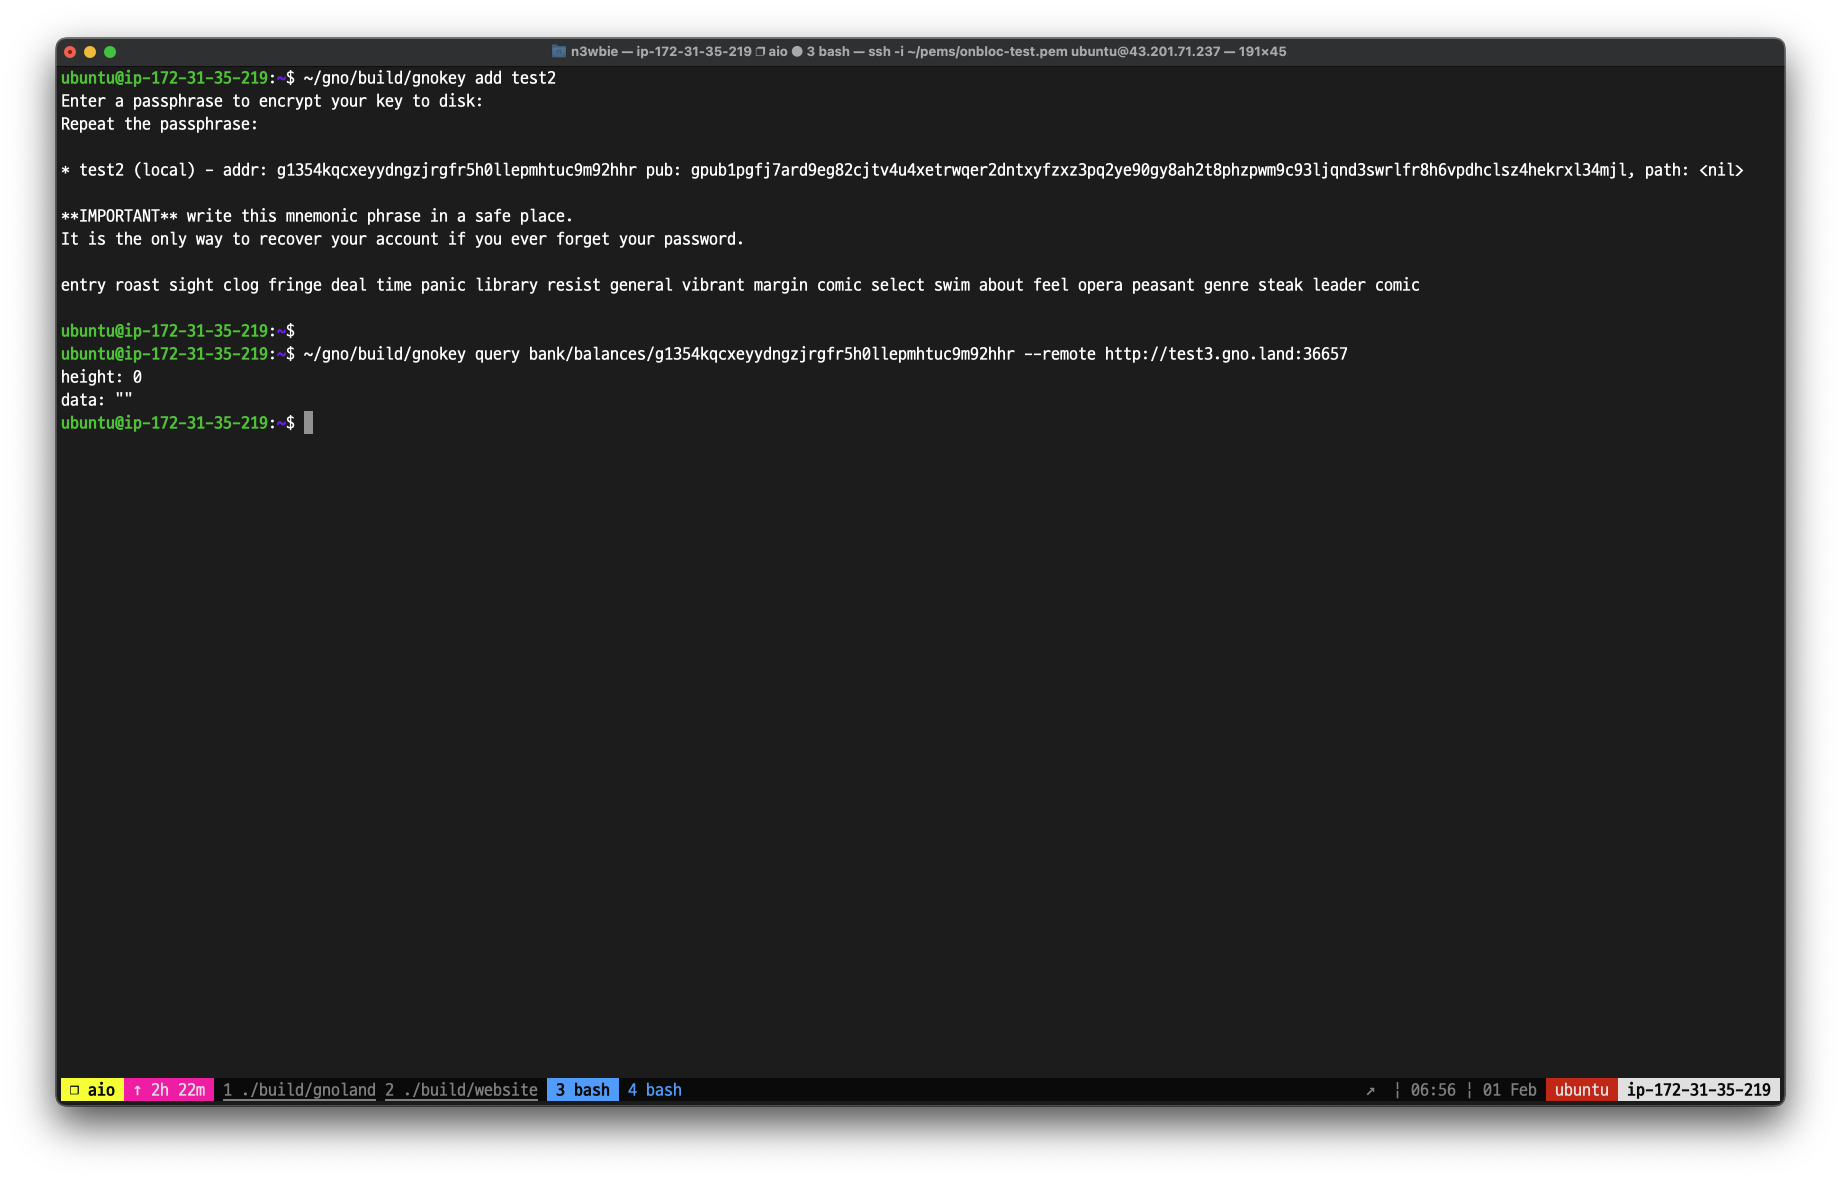
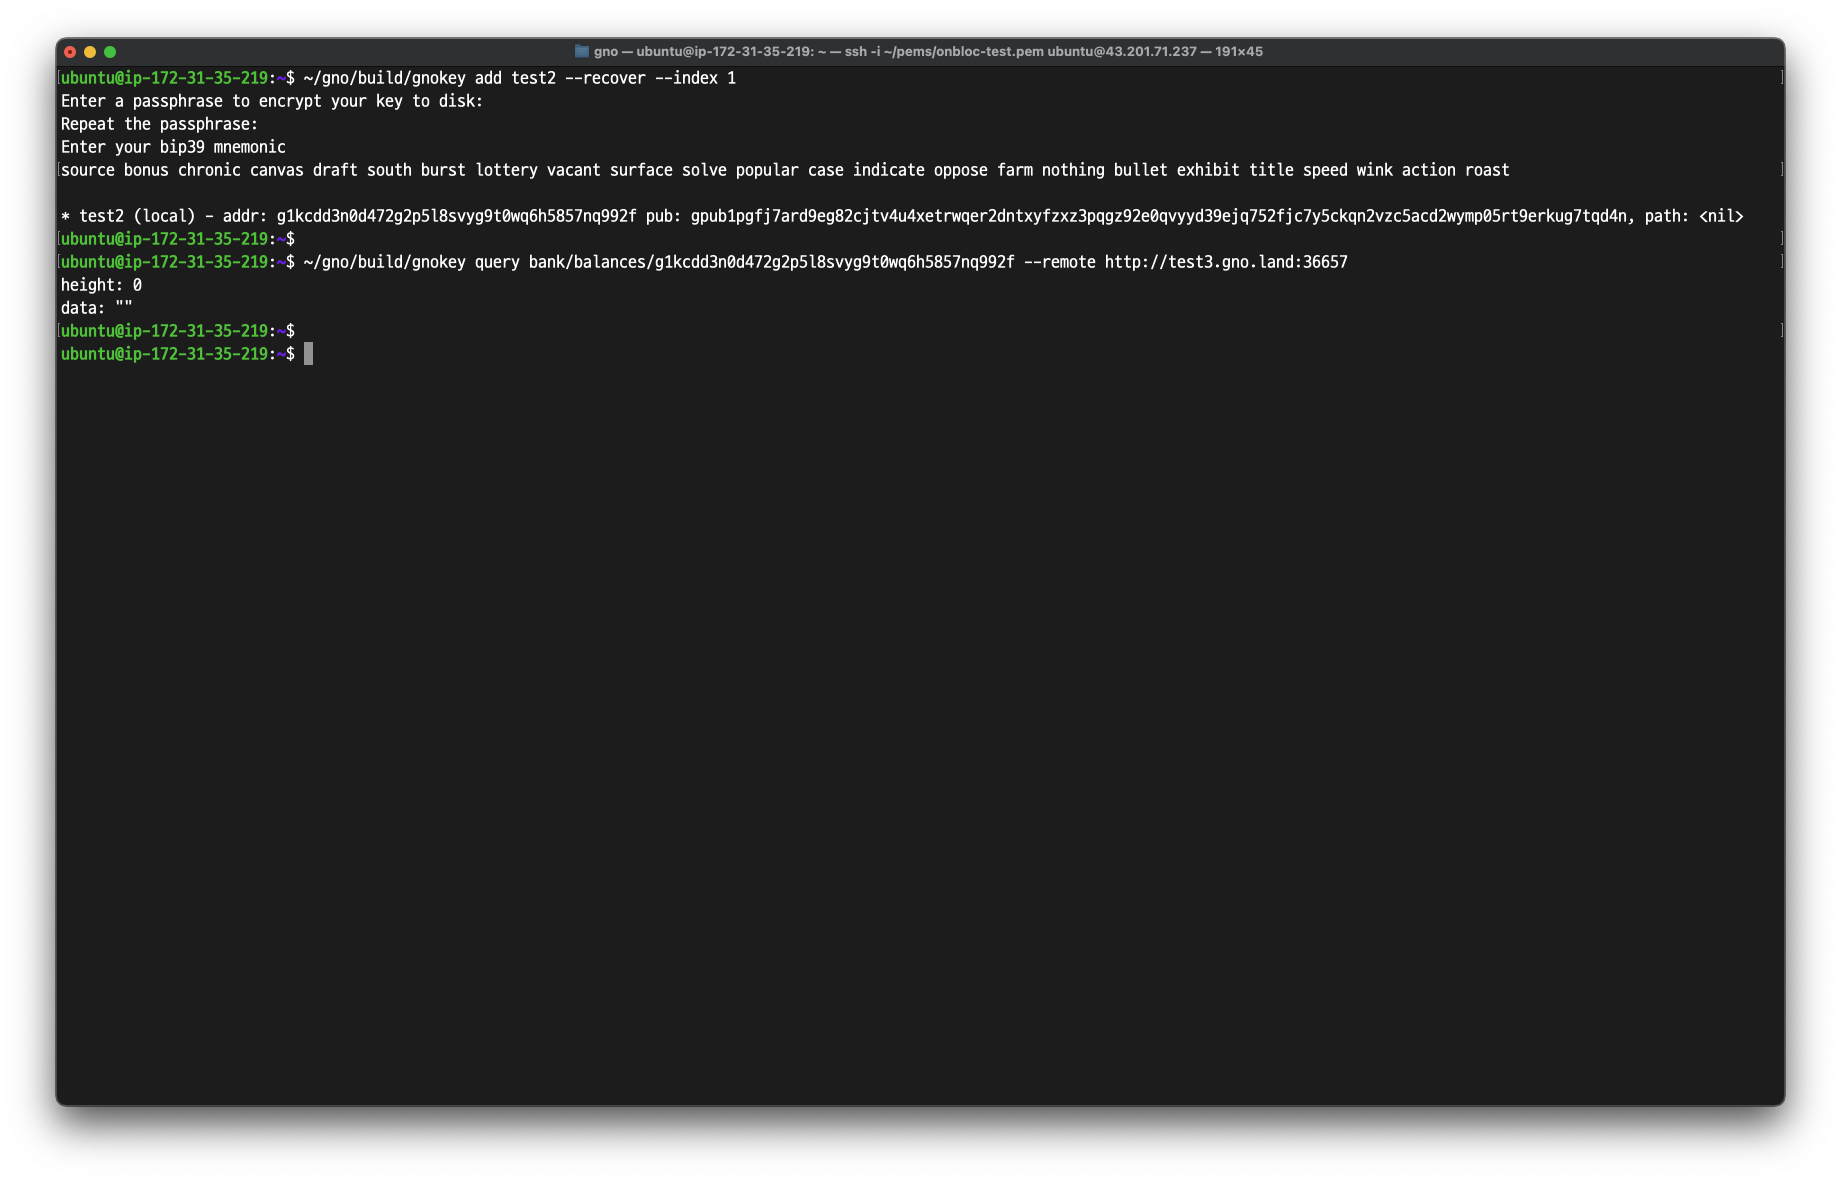
feat: add gnokey index option

diff --git a/tutorials/start-writing-a-realm.md b/tutorials/start-writing-a-realm.md
@@ -169,7 +169,8 @@ You may use your existing account on the Testnet, but you will need to fund it w
 Create a new account with the following command:
 
 ```bash
-$ gnokey add {account_name}
+$ gnokey add {account_name} # creates an address with a new seed phrase
+$ gnokey add {account_name} --recover --index {index} # creates an address using the existing seed phrase
 ```
 
 Then, check its balances on the testnet with the following command:
